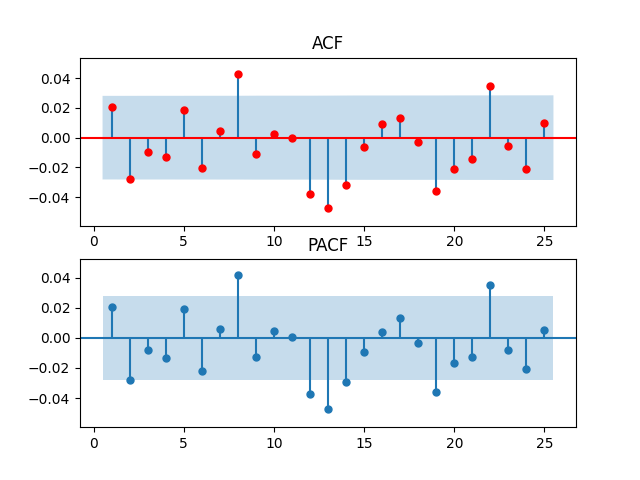
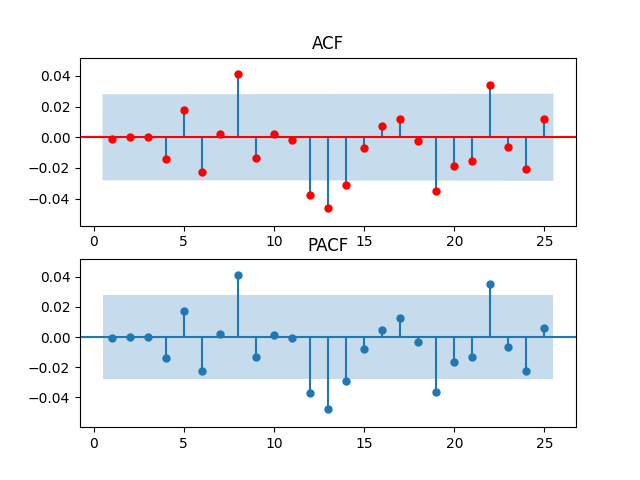
ARIMA works

diff --git a/arima.py b/arima.py
@@ -1,17 +1,16 @@
 import pandas as pd
 import numpy as np
 from statsmodels.tsa.arima.model import ARIMA
+from statsmodels.graphics.tsaplots import plot_acf, plot_pacf
+from sklearn.metrics import mean_squared_error
 import matplotlib.pyplot as plt
 import matplotlib.dates as mdates
-from statsmodels.graphics.tsaplots import plot_acf
-from statsmodels.graphics.tsaplots import plot_pacf
-from statsmodels.tsa.stattools import adfuller
-from sklearn.model_selection import train_test_split
 import seaborn as sns
 from pathlib import Path
-from sklearn.metrics import mean_squared_error
 import os
 
+def set_df_size(df, days):
+    return df.iloc[len(df)-days:].copy(deep = True)
 
 def create_output_folder(ticker):
     dirName = f"ARIMAOutput/ARIMA_{ticker}"
@@ -51,7 +50,7 @@ def AICHelper(df, ticker):
 
     print (ticker, best_p, 1, best_q, ": ", result.aic)
         
-def CustomARIMA(df, ticker, p, d, q):
+def CustomARIMAStats(df, ticker, p, d, q):
     dirName = f"ARIMAOutput/ARIMA_{ticker}"
     image_file_path = f"{dirName}/{ticker}_model_metrics.png"
     file_path = f"{dirName}/{ticker}_model_summary.txt"
@@ -85,6 +84,48 @@ def CustomARIMA(df, ticker, p, d, q):
     plt.savefig(f"{dirName}/{ticker}_Residual_ACF.png")
     plt.clf()
 
+def ARIMAForcast(df, ticker, p,d,q):
+    dirName = f"ARIMAOutput/ARIMA_{ticker}"
+    file_path = f"{dirName}/{ticker}_model_forecast.png"
+
+    # change size / number of days to work with
+    # df = set_df_size(df, 100)
+    # print(df.shape)
+
+    train_size = int(len(df)*0.8)
+    # test train, dataframes 
+    train_set = df.iloc[:train_size]
+    test_set = df.iloc[train_size:]
+
+    model = ARIMA(train_set["Close"], order=(p,d,q))
+    result = model.fit()
+
+    forecast_ARIMA = result.get_forecast(len(test_set))
+    pred_mean = forecast_ARIMA.predicted_mean
+    forecast_CI = forecast_ARIMA.conf_int()
+
+    df["forecasted"] = [None]*len(train_set) + list(pred_mean)
+    df["Date"] = pd.to_datetime(df["Date"])
+    test_set["Date"] = pd.to_datetime(test_set["Date"])
+
+    fig, (ax1) = plt.subplots(1,1, figsize=(20,10))
+    ax1.plot(df["Date"], df["Close"], label="Actual")
+    ax1.plot(df["Date"], df["forecasted"], label="Predicted")
+
+    ax1.fill_between(test_set["Date"], forecast_CI['lower Close'], 
+                 forecast_CI['upper Close'], alpha=0.5, label="95% CI")
+    
+    ax1.xaxis.set_major_locator(mdates.MonthLocator()) # xaxis ticks
+    ax1.set_ylabel("Close Price")
+    plt.xticks(rotation = 70)
+    plt.legend()
+
+    plt.tight_layout()
+    plt.savefig(file_path)
+    plt.clf()
+
+
+
 def main():
     datasets = Path("datasets").rglob("*.csv")
     dataset_list = []
@@ -103,23 +144,32 @@ def main():
 
 
     # ARIMA 1 AMC
-    CustomARIMA(pd.read_csv(dataset_list[0]),ticker_list[0],1,1,1)
-    # ARIMA 2 BHP
-    CustomARIMA(pd.read_csv(dataset_list[1]),ticker_list[1],1,1,0)
+    CustomARIMAStats(pd.read_csv(dataset_list[0]),ticker_list[0],2,1,1)
+    ARIMAForcast(pd.read_csv(dataset_list[0]),ticker_list[0],0,1,2)
+    # # ARIMA 2 BHP
+    # CustomARIMAStats(pd.read_csv(dataset_list[1]),ticker_list[1],2,1,2)
+    # ARIMAForcast(pd.read_csv(dataset_list[1]),ticker_list[1],2,1,2)
     # ARIMA 3 CBA
-    CustomARIMA(pd.read_csv(dataset_list[2]),ticker_list[2],1,1,0)
-    # ARIMA 4 CSL
-    CustomARIMA(pd.read_csv(dataset_list[3]),ticker_list[3],1,1,0)
-    # ARIMA 5 NAB
-    CustomARIMA(pd.read_csv(dataset_list[4]),ticker_list[4],1,1,0)
-    # ARIMA 6 PME
-    CustomARIMA(pd.read_csv(dataset_list[5]),ticker_list[5],1,1,0)
-    # ARIMA 7 RIO
-    CustomARIMA(pd.read_csv(dataset_list[6]),ticker_list[6],1,1,0)
-    # ARIMA 8 RMD
-    CustomARIMA(pd.read_csv(dataset_list[7]),ticker_list[7],1,1,0)   
-    # ARIMA 9 WBC
-    CustomARIMA(pd.read_csv(dataset_list[8]),ticker_list[8],1,1,0)
+    # CustomARIMAStats(pd.read_csv(dataset_list[2]),ticker_list[2],1,1,0)
+    # ARIMAForcast(pd.read_csv(dataset_list[2]),ticker_list[2],1,1,0)
+    # # ARIMA 4 CSL
+    # CustomARIMAStats(pd.read_csv(dataset_list[3]),ticker_list[3],1,1,0)
+    # ARIMAForcast(pd.read_csv(dataset_list[3]),ticker_list[3],1,1,0)
+    # # ARIMA 5 NAB
+    # CustomARIMAStats(pd.read_csv(dataset_list[4]),ticker_list[4],1,1,0)
+    # ARIMAForcast(pd.read_csv(dataset_list[4]),ticker_list[4],1,1,0)
+    # # ARIMA 6 PME
+    # CustomARIMAStats(pd.read_csv(dataset_list[5]),ticker_list[5],1,1,0)
+    # ARIMAForcast(pd.read_csv(dataset_list[5]),ticker_list[5],1,1,0)
+    # # ARIMA 7 RIO
+    # CustomARIMAStats(pd.read_csv(dataset_list[6]),ticker_list[6],1,1,0)
+    # ARIMAForcast(pd.read_csv(dataset_list[6]),ticker_list[6],1,1,0)
+    # # ARIMA 8 RMD
+    # CustomARIMAStats(pd.read_csv(dataset_list[7]),ticker_list[7],1,1,0)   
+    # ARIMAForcast(pd.read_csv(dataset_list[7]),ticker_list[7],1,1,0)
+    # # ARIMA 9 WBC
+    # CustomARIMAStats(pd.read_csv(dataset_list[8]),ticker_list[8],1,1,0)
+    # ARIMAForcast(pd.read_csv(dataset_list[8]),ticker_list[8],1,1,0)
 
 
 main()
